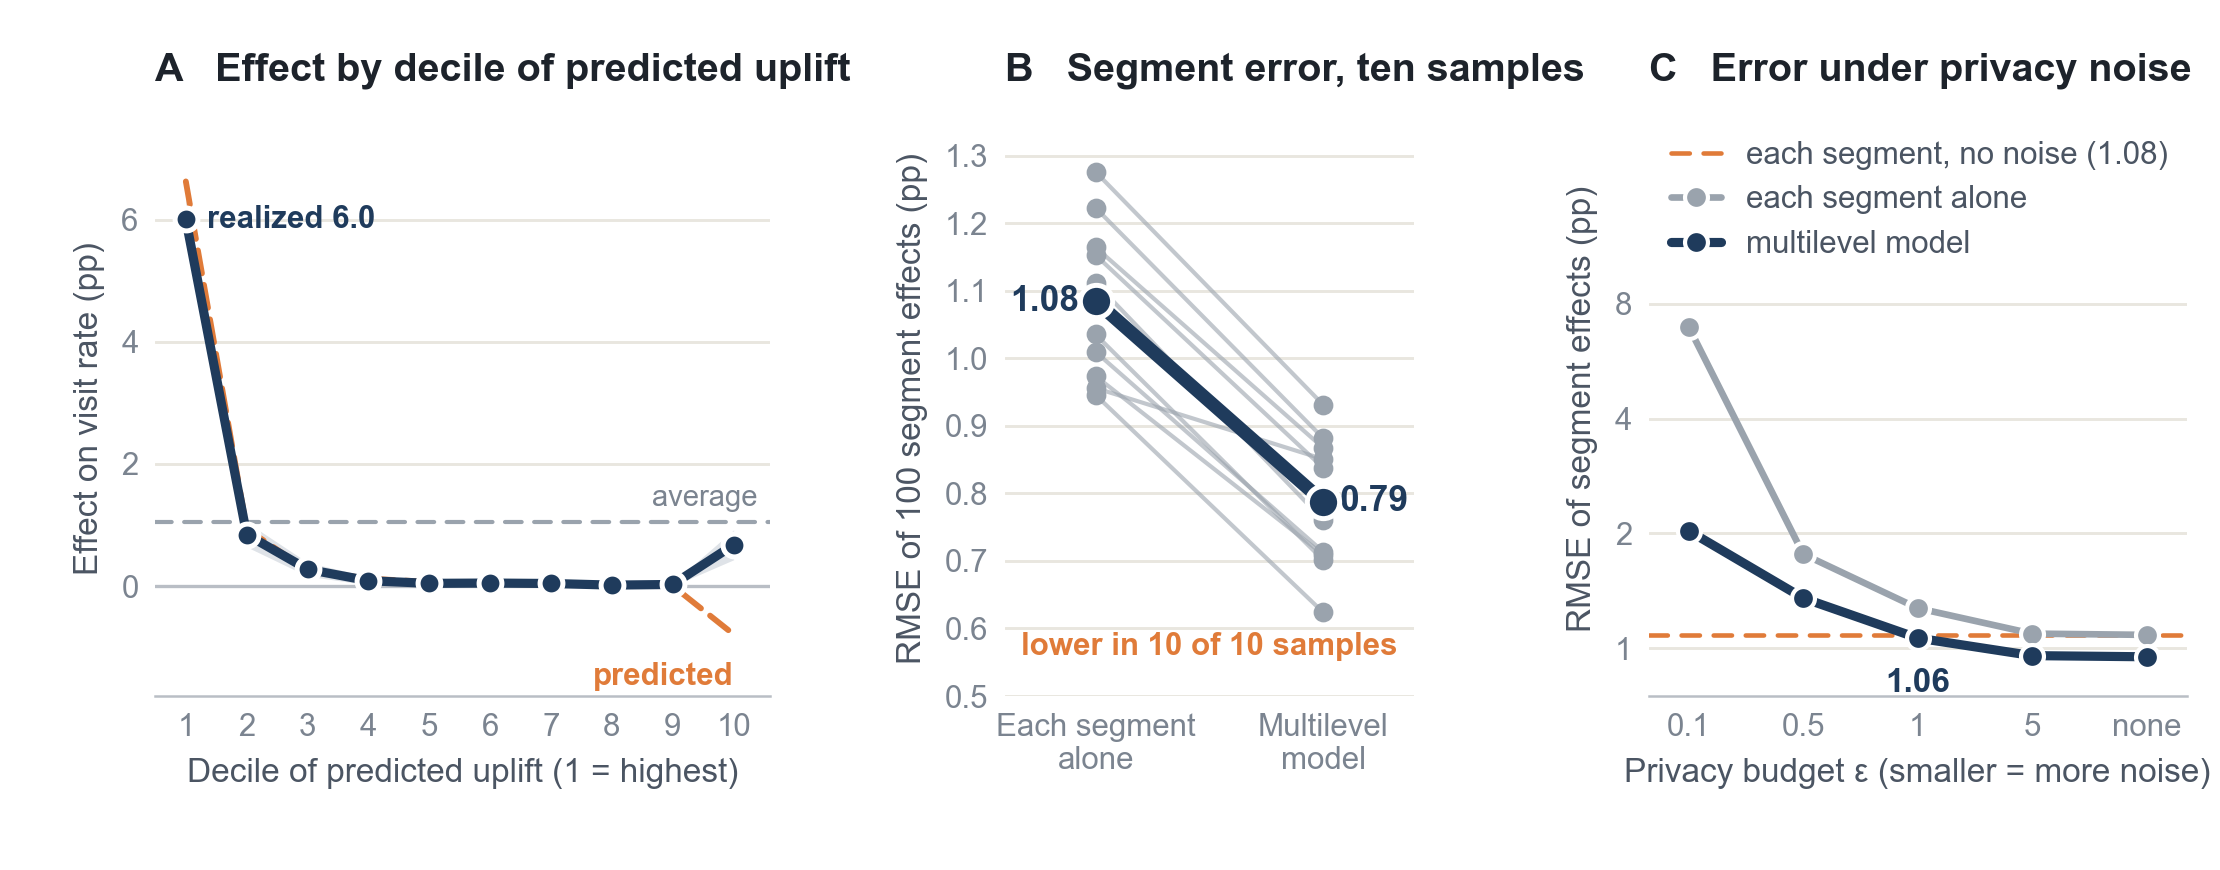
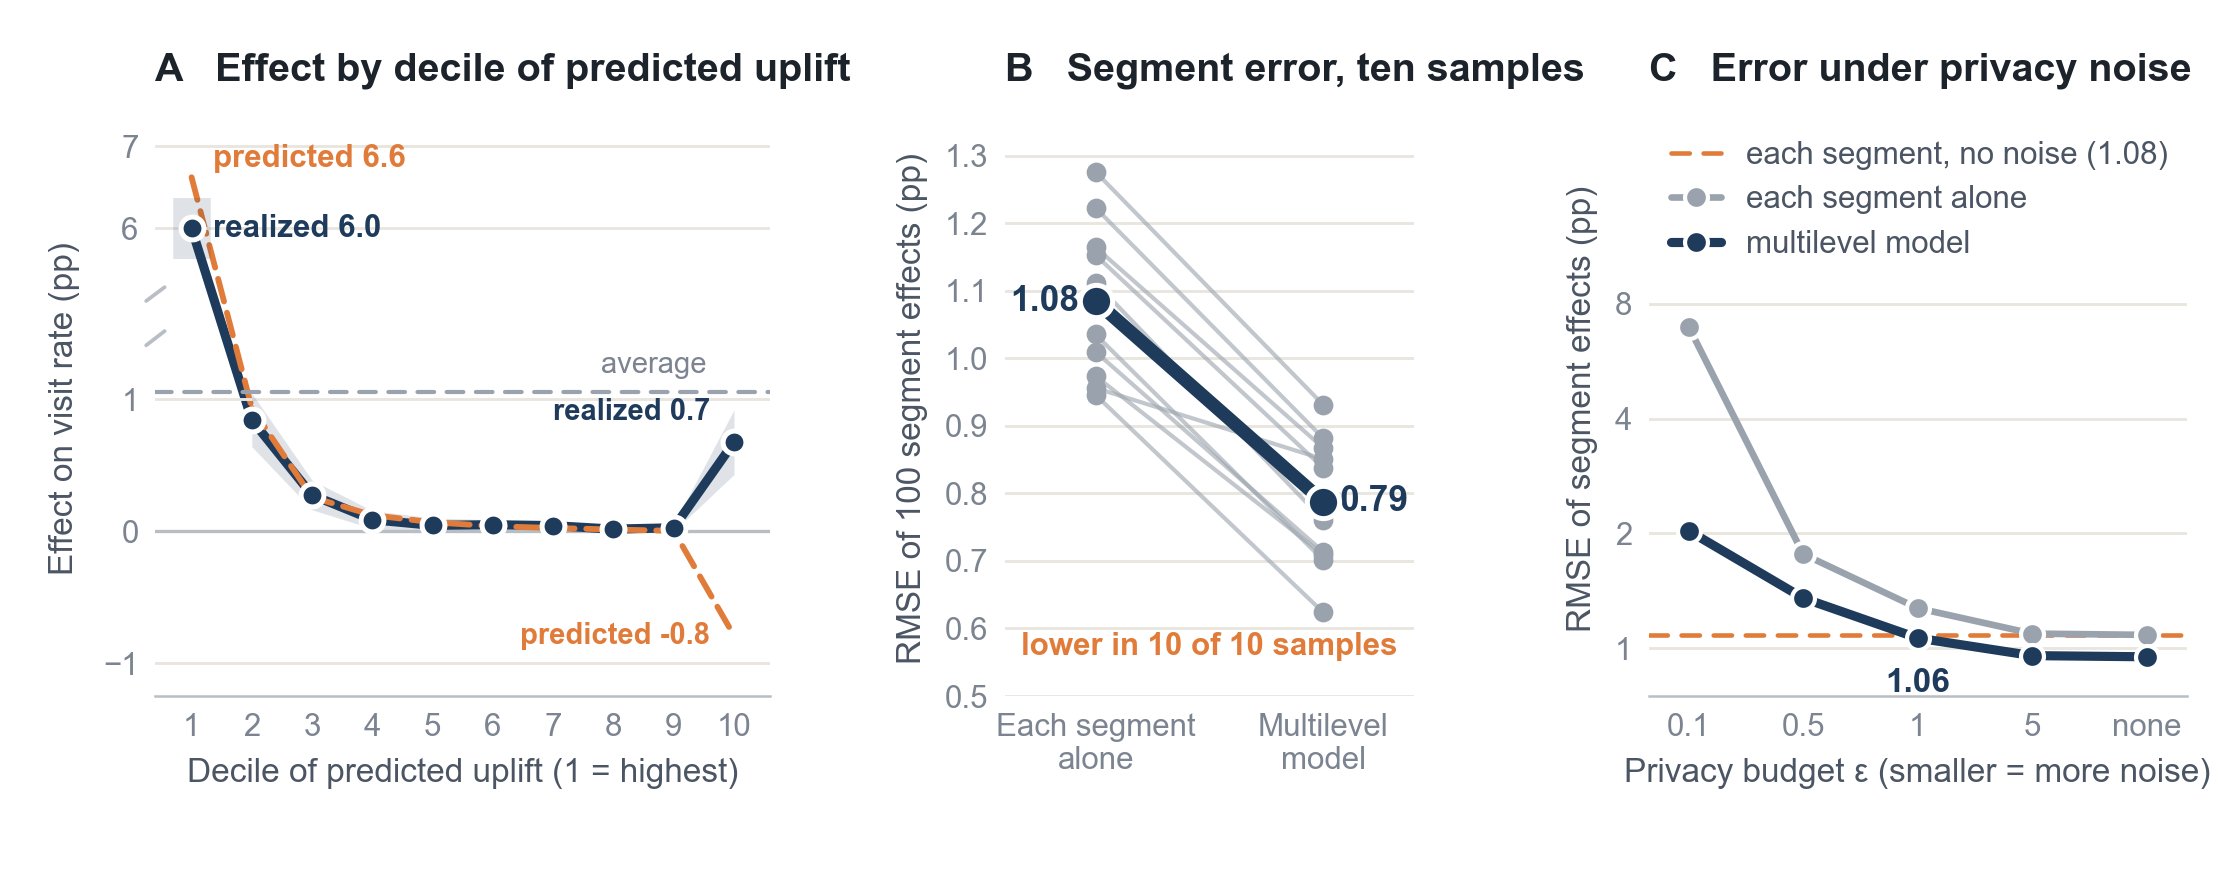
Decile panel on a broken axis with continuous lines; rates chart shows only relative changes
- Effect by decile: decile 1 in its own upper band so deciles 2-10 are readable; lines and the 95% band continue across the break
- Interactive rates chart: the bar label is the relative lift; percentage-point changes move to the hover tip

Changed region(s): [[0.0, 0.1552, 0.3419, 0.8379]]

diff --git a/docs/assets/explorer.js b/docs/assets/explorer.js
@@ -79,7 +79,7 @@ document.querySelectorAll("[data-count]").forEach(n => { const [v, d] = heroVals
     [["visit", "Visit rate"], ["conversion", "Conversion rate"]].forEach(([k, name], i) => {
       const r = E[k], g = el("g", { transform: `translate(0,${i * rowsH})` }, svg), y = 40, i1 = 100 * r.ad_rate / r.control_rate;
       txt(g, 0, y - 6, name, { class: "t-strong" });
-      txt(g, 0, y + 12, `+${fmt(100 * r.relative_lift)}% relative`, { class: "t-orange" });
+      
       el("line", { x1: x(0), x2: R, y1: y, y2: y, class: "gridl", "stroke-width": 6, "stroke-linecap": "round" }, g);
       const bar = el("line", { x1: x(100), x2: x(100), y1: y, y2: y, "stroke-width": 6, "stroke-linecap": "round", class: "s-orange", opacity: .55 }, g);
       const c0 = el("circle", { cx: x(100), cy: y, r: 7, class: "f-grey s-card", "stroke-width": 2 }, g);
@@ -87,8 +87,8 @@ document.querySelectorAll("[data-count]").forEach(n => { const [v, d] = heroVals
       const l0 = txt(g, x(100) - 4, y - 16, `Control ${(100 * r.control_rate).toFixed(2)}%`, { "text-anchor": "end", class: "t-muted" });
       const l1 = txt(g, x(i1) + 4, y - 16, `${nar ? "Ad" : "Ad group"} ${(100 * r.ad_rate).toFixed(2)}%`, { "text-anchor": "start", class: "t-navy", opacity: 0 });
       l1.setAttribute("x", Math.min(x(i1) + 4, w - 2 - l1.getComputedTextLength()));
-      const dl = txt(g, (x(100) + x(i1)) / 2, y + 22, `+${(100 * (r.ad_rate - r.control_rate)).toFixed(k === "visit" ? 2 : 3)} pp`, { "text-anchor": "middle", class: "t-orange", "font-size": 11, opacity: 0 });
-      hoverTip(c0, `Control group: ${(100 * r.control_rate).toFixed(2)}% (100% of control)`); hoverTip(c1, `Ad group: ${(100 * r.ad_rate).toFixed(2)}% (${fmt(i1)}% of control)`);
+      const dl = txt(g, (x(100) + x(i1)) / 2, y + 22, `+${fmt(100 * r.relative_lift)}% relative`, { "text-anchor": "middle", class: "t-orange", "font-size": 11, opacity: 0 });
+      hoverTip(c0, `Control group: ${(100 * r.control_rate).toFixed(2)}% (100% of control)`); hoverTip(c1, `Ad group: ${(100 * r.ad_rate).toFixed(2)}% (${fmt(i1)}% of control; +${(100 * (r.ad_rate - r.control_rate)).toFixed(k === "visit" ? 2 : 3)} pp)`);
       const go = () => animate([[c1, { cx: x(i1) }], [bar, { x2: x(i1) }], [l1, { opacity: 1 }], [dl, { opacity: 1 }]], 1100);
       if (animateIn) whenVisible(host, () => setTimeout(go, 200 + 250 * i)); else { c1.setAttribute("cx", x(i1)); bar.setAttribute("x2", x(i1)); l1.setAttribute("opacity", 1); dl.setAttribute("opacity", 1); }
     });

diff --git a/docs/01.html b/docs/01.html
@@ -111,6 +111,6 @@
 </div></footer>
 <div id="tip" role="tooltip"></div>
 <script src="data.js"></script>
-<script src="assets/explorer.js?v=20261118d"></script>
+<script src="assets/explorer.js?v=20261118f"></script>
 </body>
 </html>

diff --git a/docs/02.html b/docs/02.html
@@ -105,6 +105,6 @@
 </div></footer>
 <div id="tip" role="tooltip"></div>
 <script src="data.js"></script>
-<script src="assets/explorer.js?v=20261118d"></script>
+<script src="assets/explorer.js?v=20261118f"></script>
 </body>
 </html>

diff --git a/docs/index.html b/docs/index.html
@@ -166,6 +166,6 @@
 </div></footer>
 <div id="tip" role="tooltip"></div>
 <script src="data.js"></script>
-<script src="assets/explorer.js?v=20261118d"></script>
+<script src="assets/explorer.js?v=20261118f"></script>
 </body>
 </html>

diff --git a/docs/03.html b/docs/03.html
@@ -85,6 +85,6 @@
 </div></footer>
 <div id="tip" role="tooltip"></div>
 <script src="data.js"></script>
-<script src="assets/explorer.js?v=20261118d"></script>
+<script src="assets/explorer.js?v=20261118f"></script>
 </body>
 </html>

diff --git a/docs/04.html b/docs/04.html
@@ -63,6 +63,6 @@
 </div></footer>
 <div id="tip" role="tooltip"></div>
 <script src="data.js"></script>
-<script src="assets/explorer.js?v=20261118d"></script>
+<script src="assets/explorer.js?v=20261118f"></script>
 </body>
 </html>

diff --git a/figures/figstyle.py b/figures/figstyle.py
@@ -202,20 +202,43 @@ def p_hundred(ax, letter, key="conversion", title=None):
 
 
 def p_deciles(ax, letter, title="Effect by decile of predicted uplift"):
-    tg = load(f"{S01A}/out/criteo/c_targeting.json"); cal = tg["calibration_selected"]
-    x = [r["decile"] for r in cal]; y = [100 * r["realized"] for r in cal]; h = [196 * r["se"] for r in cal]
-    ax.axhline(0, color="#b9bec5", lw=0.8)
-    ax.axhline(100 * tg["test_overall_itt"]["est"], color=GREY, lw=1, ls=(0, (4, 3)))
-    ax.text(10.4, 100 * tg["test_overall_itt"]["est"] + 0.25, "average", ha="right", fontsize=7, color=MUTED)
-    ax.fill_between(x, [u - v for u, v in zip(y, h)], [u + v for u, v in zip(y, h)], color=NAVY, alpha=0.14, lw=0)
-    ax.plot(x, y, color=NAVY, lw=2.2, zorder=3)
-    for u, v in zip(x, y):
-        dot(ax, u, v, NAVY, s=30)
-    ax.plot(x, [100 * r["predicted"] for r in cal], color=ORANGE, lw=1.4, ls=(0, (4, 2)), zorder=2)
-    ax.text(1.35, y[0], f"realized {y[0]:.1f}", fontsize=7.5, color=NAVY, fontweight="bold", va="center")
-    ax.text(10, 100 * cal[-1]["predicted"] - 0.45, "predicted", fontsize=7.5, color=ORANGE, fontweight="bold", ha="right", va="top")
-    ax.set_xticks(x); ax.set_xlim(0.5, 10.6); ax.set_ylim(-1.8, 7.6); ax.set_xlabel("Decile of predicted uplift (1 = highest)")
-    ax.set_ylabel("Effect on visit rate (pp)"); clean(ax)
+    """Realized effect (line, 95% band) against the model's prediction (dashed) by decile, on a broken axis.
+
+    Decile 1 (about 6 pp) sits in its own upper band so deciles 2-10 (about -1 to 1 pp) are not flattened.
+    """
+    tg = load(f"{S01A}/out/criteo/c_targeting.json"); cal = tg["calibration_selected"]; avg = 100 * tg["test_overall_itt"]["est"]
+    x = [r["decile"] for r in cal]; y = [100 * r["realized"] for r in cal]; h = [196 * r["se"] for r in cal]; pr = [100 * r["predicted"] for r in cal]
+    for sp in ax.spines.values():
+        sp.set_visible(False)
+    ax.set_xticks([]); ax.set_yticks([]); ax.grid(False); ax.patch.set_alpha(0)
+    top = ax.inset_axes([0, 0.70, 1, 0.30]); low = ax.inset_axes([0, 0, 1, 0.62])
+    for a, (y0, y1) in ((top, (5.2, 7.3)), (low, (-1.25, 1.45))):
+        a.set_xlim(0.4, 10.6); a.set_ylim(y0, y1); a.grid(axis="y", color=GRID); a.set_axisbelow(True)
+        a.patch.set_alpha(0)  # transparent, so the segment drawn across the break is not covered
+        a.fill_between(x[1:], [u - v for u, v in zip(y[1:], h[1:])], [u + v for u, v in zip(y[1:], h[1:])], color=NAVY, alpha=0.14, lw=0)
+        a.plot(x[1:], y[1:], color=NAVY, lw=2.2, zorder=3)
+        a.plot(x[1:], pr[1:], color=ORANGE, lw=1.4, ls=(0, (4, 2)), zorder=4)
+        for u, v in zip(x, y):
+            dot(a, u, v, NAVY, s=30, z=5)
+    # join decile 1 (upper band) to decile 2 (lower band) across the break, so each line stays continuous
+    from matplotlib.patches import ConnectionPatch
+    for vals, kw in ((y, dict(color=NAVY, lw=2.2, zorder=3)), (pr, dict(color=ORANGE, lw=1.4, ls=(0, (4, 2)), zorder=4))):
+        ax.add_artist(ConnectionPatch((x[0], vals[0]), (x[1], vals[1]), "data", "data", axesA=top, axesB=low, **kw))
+    top.plot([x[0], x[0]], [y[0] - h[0], y[0] + h[0]], color=NAVY, alpha=0.14, lw=9, solid_capstyle="butt", zorder=2)  # 95% CI of decile 1, same shade as the band
+    low.axhline(0, color="#b9bec5", lw=0.8, zorder=1)
+    low.axhline(avg, color=GREY, lw=1, ls=(0, (4, 3)), zorder=1)
+    low.text(9.55, avg + 0.1, "average", ha="right", va="bottom", fontsize=7, color=MUTED)
+    top.set_xticks([]); top.spines["bottom"].set_visible(False); top.set_yticks([6, 7])
+    low.set_xticks(x); low.set_yticks([-1, 0, 1]); low.spines["top"].set_visible(False)
+    d = dict(transform=top.transAxes, color="#b9bec5", lw=0.9, clip_on=False)
+    top.plot([-0.015, 0.015], [-0.04, 0.04], **d)
+    low.plot([-0.015, 0.015], [0.985, 1.025], transform=low.transAxes, color="#b9bec5", lw=0.9, clip_on=False)
+    top.text(1.35, y[0], f"realized {y[0]:.1f}", fontsize=7.5, color=NAVY, fontweight="bold", va="center")
+    top.text(1.35, pr[0] + 0.05, f"predicted {pr[0]:.1f}", fontsize=7.5, color=ORANGE, fontweight="bold", va="bottom")
+    low.text(9.6, pr[-1], f"predicted {pr[-1]:.1f}", fontsize=7, color=ORANGE, fontweight="bold", ha="right", va="center")
+    low.text(9.6, y[-1] + 0.12, f"realized {y[-1]:.1f}", fontsize=7, color=NAVY, fontweight="bold", ha="right", va="bottom")
+    low.set_xlabel("Decile of predicted uplift (1 = highest)")
+    ax.set_ylabel("Effect on visit rate (pp)", labelpad=18)
     panel(ax, letter, title)
 
 
